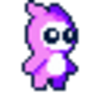
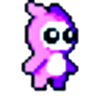
Переробила фон, збільшила різкість персонажа, змінила розмір вікна

Changed region(s): [[0.21, 0.0, 0.81, 0.93]]

diff --git a/game.py b/game.py
@@ -2,26 +2,25 @@ import pygame
 
 pygame.init()
 
-winHeight = 577
-winWidht = 800
-win = pygame.display.set_mode((winWidht, winHeight))
+size = (winWidht, winHeight) = (900, 420) 
+win = pygame.display.set_mode(size)
 
 pygame.display.set_caption("Cubes Game")
 
-walkRight = [pygame.image.load('/Users/ann/Documents//webdev/My_first_Game/paku_Walk_1.png'), pygame.image.load('/Users/ann/Documents/webdev/My_first_Game/paku_Walk_2.png'), pygame.image.load('/Users/ann/Documents/webdev/My_first_Game/paku_Walk_3.png'), pygame.image.load('/Users/ann/Documents/webdev/My_first_Game/paku_Walk_4.png'), pygame.image.load('/Users/ann/Documents/webdev/My_first_Game/paku_Walk_5.png'), pygame.image.load('/Users/ann/Documents/webdev/My_first_Game/paku_Walk_6.png')]
-walkLeft = [pygame.image.load('/Users/ann/Documents/webdev/My_first_Game/paku_Walk_Left_1.png'), pygame.image.load('/Users/ann/Documents/webdev/My_first_Game/paku_Walk_Left_2.png'), pygame.image.load('/Users/ann/Documents/webdev/My_first_Game/paku_Walk_Left_3.png'), pygame.image.load('/Users/ann/Documents/webdev/My_first_Game/paku_Walk_Left_4.png'), pygame.image.load('/Users/ann/Documents/webdev/My_first_Game/paku_Walk_Left_5.png'), pygame.image.load('/Users/ann/Documents/webdev/My_first_Game/paku_Walk_Left_6.png')]
+walkRight = [pygame.image.load('C:/Users/ann/Documents/Python/webdev/khishchenko/my_first_game/paku_Walk_1.png'), pygame.image.load('C:/Users/ann/Documents/Python/webdev/khishchenko/my_first_game/paku_Walk_2.png'), pygame.image.load('C:/Users/ann/Documents/Python/webdev/khishchenko/my_first_game/paku_Walk_3.png'), pygame.image.load('C:/Users/ann/Documents/Python/webdev/khishchenko/my_first_game/paku_Walk_4.png'), pygame.image.load('C:/Users/ann/Documents/Python/webdev/khishchenko/my_first_game/paku_Walk_5.png'), pygame.image.load('C:/Users/ann/Documents/Python/webdev/khishchenko/my_first_game/paku_Walk_6.png')]
+walkLeft = [pygame.image.load('C:/Users/ann/Documents/Python/webdev/khishchenko/my_first_game/paku_Walk_Left_1.png'), pygame.image.load('C:/Users/ann/Documents/Python/webdev/khishchenko/my_first_game/paku_Walk_Left_2.png'), pygame.image.load('C:/Users/ann/Documents/Python/webdev/khishchenko/my_first_game/paku_Walk_Left_3.png'), pygame.image.load('C:/Users/ann/Documents/Python/webdev/khishchenko/my_first_game/paku_Walk_Left_4.png'), pygame.image.load('C:/Users/ann/Documents/Python/webdev/khishchenko/my_first_game/paku_Walk_Left_5.png'), pygame.image.load('C:/Users/ann/Documents/Python/webdev/khishchenko/my_first_game/paku_Walk_Left_6.png')]
 
-# jumpRight = [pygame.image.load('/Users/ann/Documents/webdev/My_first_Game/paku_Jump_1.png'), pygame.image.load('/Users/ann/Documents/webdev/My_first_Game/paku_Jump_2.png'), pygame.image.load('/Users/ann/Documents/webdev/My_first_Game/paku_Jump_3.png'), pygame.image.load('/Users/ann/Documents/webdev/My_first_Game/paku_Jump_4.png'), pygame.image.load('/Users/ann/Documents/webdev/My_first_Game/paku_Jump_5.png'), pygame.image.load('/Users/ann/Documents/webdev/My_first_Game/paku_Jump_6.png')]
-# jumpLeft = [pygame.image.load('/Users/ann/Documents/webdev/My_first_Game/paku_Jump_Left_1.png'), pygame.image.load(r'/Users/ann/Documents/webdev/My_first_Game/paku_Jump_Left_2.png'), pygame.image.load(r'/Users/ann/Documents/webdev/My_first_Game/paku_Jump_Left_3.png'), pygame.image.load(r'/Users/ann/Documents/webdev/My_first_Game/paku_Jump_Left_4.png'), pygame.image.load(r'/Users/ann/Documents/webdev/My_first_Game/paku_Jump_Left_5.png'), pygame.image.load(r'/Users/ann/Documents/webdev/My_first_Game/paku_Jump_Left_6.png').convert()]
+# jumpRight = [pygame.image.load('C:/Users/ann/Documents/Python/webdev/khishchenko/my_first_game/paku_Jump_1.png'), pygame.image.load('C:/Users/ann/Documents/Python/webdev/khishchenko/my_first_game/paku_Jump_2.png'), pygame.image.load('C:/Users/ann/Documents/Python/webdev/khishchenko/my_first_game/paku_Jump_3.png'), pygame.image.load('C:/Users/ann/Documents/Python/webdev/khishchenko/my_first_game/paku_Jump_4.png'), pygame.image.load('C:/Users/ann/Documents/Python/webdev/khishchenko/my_first_game/paku_Jump_5.png'), pygame.image.load('C:/Users/ann/Documents/Python/webdev/khishchenko/my_first_game/paku_Jump_6.png')]
+# jumpLeft = [pygame.image.load('C:/Users/ann/Documents/Python/webdev/khishchenko/my_first_game/paku_Jump_Left_1.png'), pygame.image.load(r'C:/Users/ann/Documents/Python/webdev/khishchenko/my_first_game/paku_Jump_Left_2.png'), pygame.image.load(r'C:/Users/ann/Documents/Python/webdev/khishchenko/my_first_game/paku_Jump_Left_3.png'), pygame.image.load(r'C:/Users/ann/Documents/Python/webdev/khishchenko/my_first_game/paku_Jump_Left_4.png'), pygame.image.load(r'C:/Users/ann/Documents/Python/webdev/khishchenko/my_first_game/paku_Jump_Left_5.png'), pygame.image.load(r'C:/Users/ann/Documents/Python/webdev/khishchenko/my_first_game/paku_Jump_Left_6.png').convert()]
 
-playerStand = pygame.image.load('/Users/ann/Documents/webdev/My_first_Game/paku_Idle.png')
+playerStand = pygame.image.load('C:/Users/ann/Documents/Python/webdev/khishchenko/my_first_game/paku_Idle.png')
 
-background = pygame.image.load('/Users/ann/Documents/webdev/My_first_Game/alien_planet.png')
+background = pygame.image.load('C:/Users/ann/Documents/Python/webdev/khishchenko/my_first_game/space.jpg')
 
 clock = pygame.time.Clock()
 
 x = 50
-y = 480
+y = 315
 widht = 100
 height = 100
 speed = 5
@@ -38,27 +37,27 @@ platform_WIDTH = 32
 platform_HEIGHT = 32
 platform_COLOR = (102, 0, 102)
 
-level = [
-       "-------------------------",
-       "-                       -",
-       "-                       -",
-       "-                       -",
-       "-            --         -",
-       "-                       -",
-       "--                      -",
-       "-                       -",
-       "-                   --- -",
-       "-                       -",
-       "-                       -",
-       "-      ---              -",
-       "-                       -",
-       "-   -----------        -",
-       "-                       -",
-       "-                -      -",
-       "-                   --  -",
-       "-                       -",
-       "-                       -",
-       "-------------------------"]
+# level = [
+#        "-------------------------",
+#        "-                       -",
+#        "-                       -",
+#        "-                       -",
+#        "-            --         -",
+#        "-                       -",
+#        "--                      -",
+#        "-                       -",
+#        "-                   --- -",
+#        "-                       -",
+#        "-                       -",
+#        "-      ---              -",
+#        "-                       -",
+#        "-   -----------        -",
+#        "-                       -",
+#        "-                -      -",
+#        "-                   --  -",
+#        "-                       -",
+#        "-                       -",
+#        "-------------------------"]
 
 def drawWindow():
     global animCount
@@ -121,18 +120,18 @@ while run:
             isJump = False
             jumpCount = 10
 
-    i=z=0 # координаты
-    for row in level: # вся строка
-        for col in row: # каждый символ
-            if col == "-":
-                #создаем блок, заливаем его цветом и рисеум его
-                pf = pygame.display.set_mode((platform_WIDTH, platform_HEIGHT))
-                pf.fill(platform_COLOR)
-                win.blit(pf,(i,z))
+    # i=z=0 # координаты
+    # for row in level: # вся строка
+    #     for col in row: # каждый символ
+    #         if col == "-":
+    #             #создаем блок, заливаем его цветом и рисеум его
+    #             pf = pygame.display.set_mode((platform_WIDTH, platform_HEIGHT))
+    #             pf.fill(platform_COLOR)
+    #             win.blit(pf,(i,z))
                     
-            i += platform_WIDTH #блоки платформы ставятся на ширине блоков
-        z += platform_HEIGHT    #то же самое и с высотой
-        i = 0                
+        #     i += platform_WIDTH #блоки платформы ставятся на ширине блоков
+        # z += platform_HEIGHT    #то же самое и с высотой
+        # i = 0                
     
     drawWindow()
 
